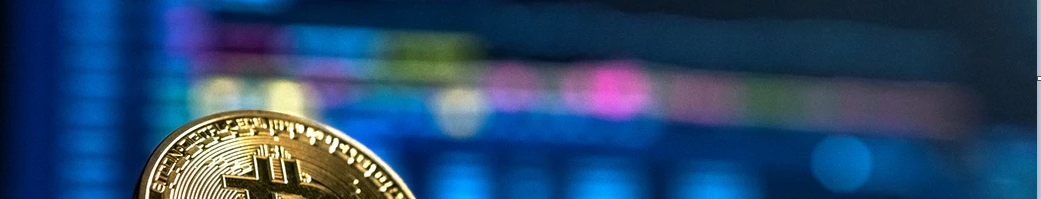
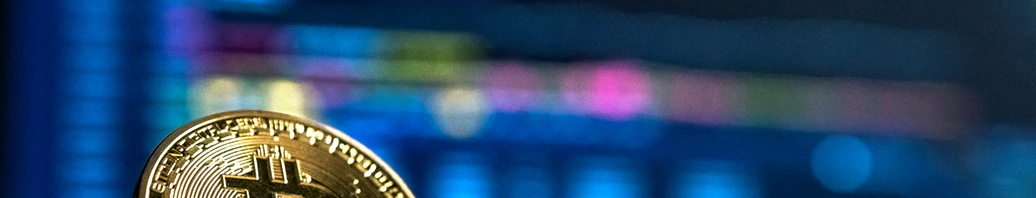
Update README.md

Changed region(s): [[0.1236, 0.5455, 0.4015, 1.0], [0.9884, 0.0, 1.0, 1.0], [0.7722, 0.7576, 0.8031, 0.8182]]

diff --git a/README.md b/README.md
@@ -1,4 +1,4 @@
-![CryptoHeader](/static/header1.png)
+![CryptoHeader](/static/header.png)
 ### CRYPTOCURRENCY PRICE PREDICTION with MACHINE LEARNING
 > An adventure in predicting future prices of cryptocurrency
 
